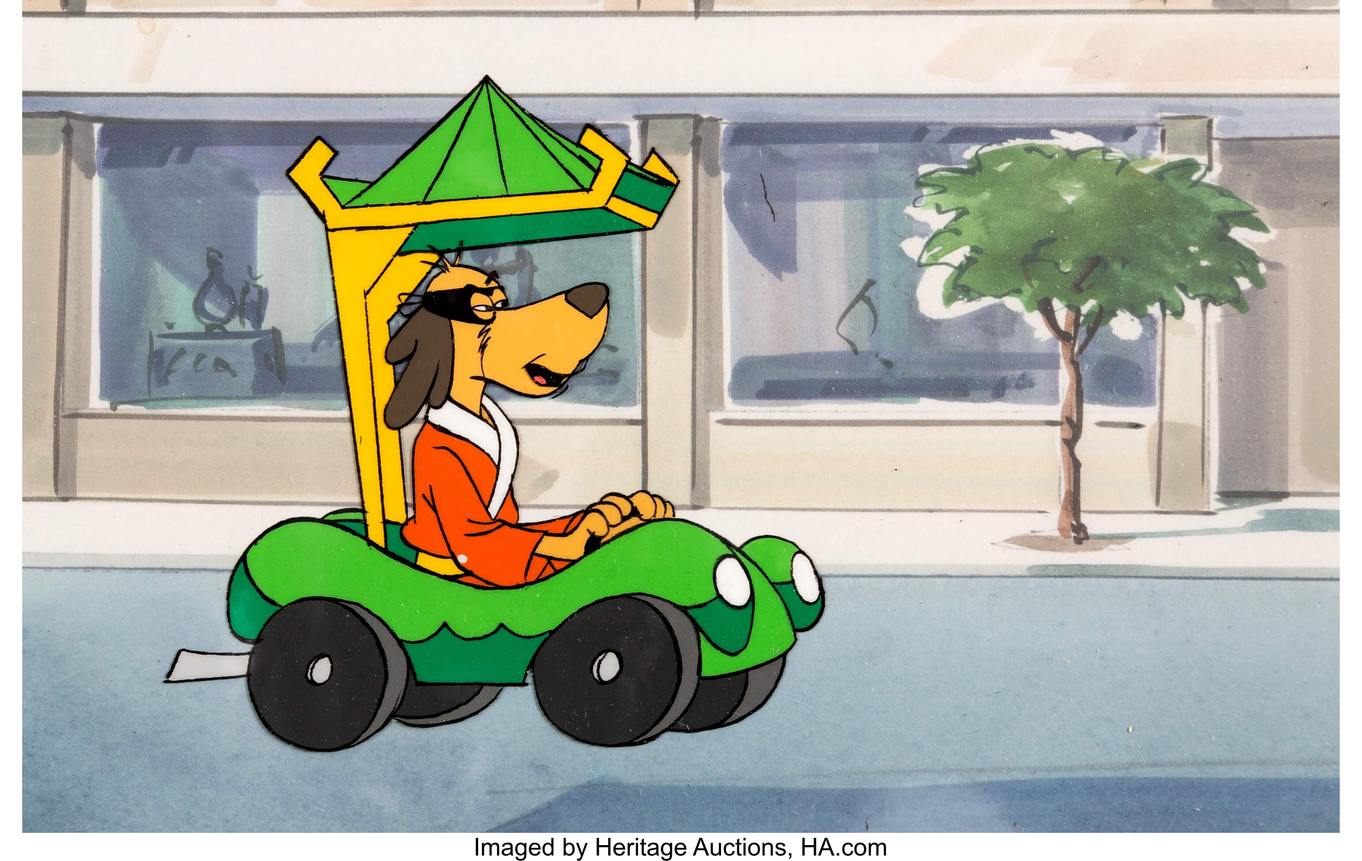
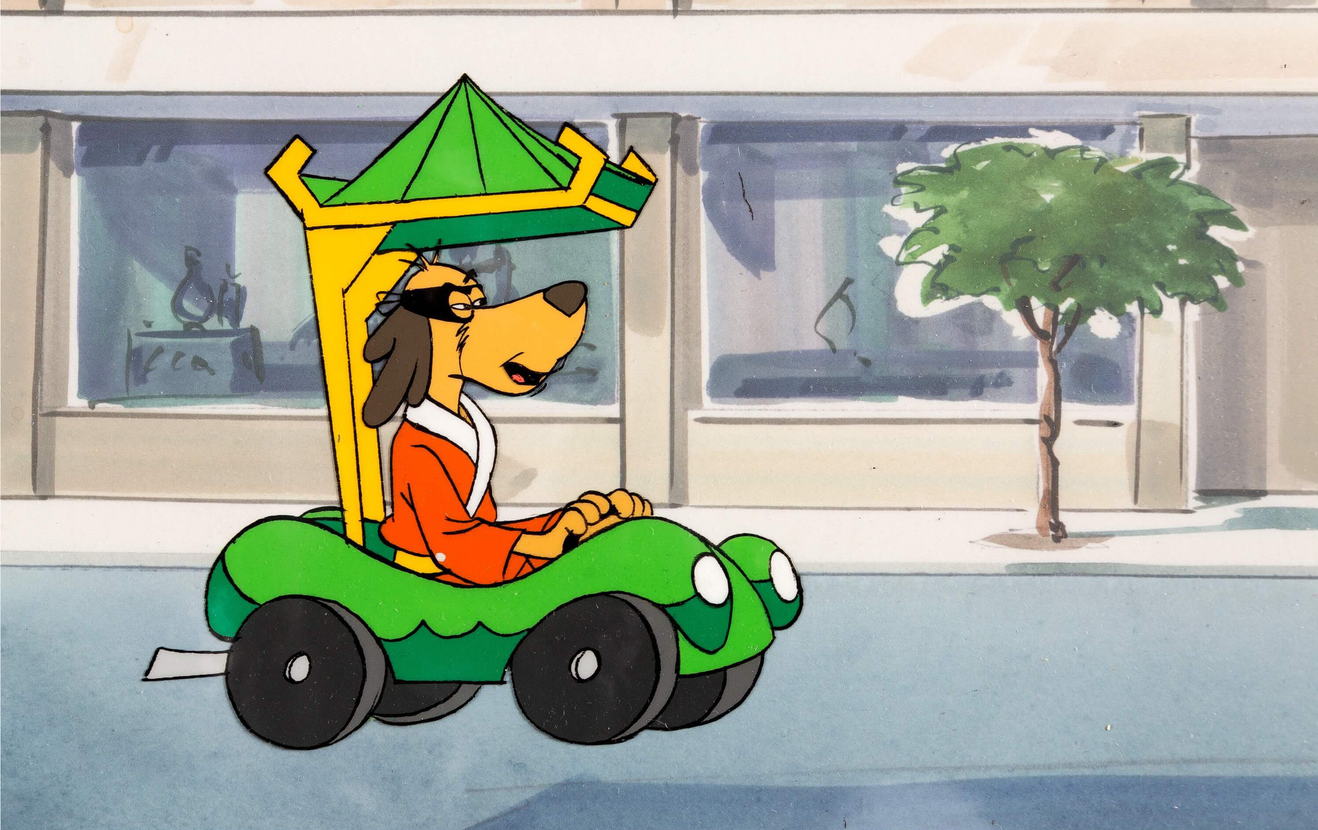
Image updated
Fixed image border issue and font colour of the caption

diff --git a/index.html b/index.html
@@ -35,12 +35,12 @@
     <li><a target="_blank" href="https://en.wikipedia.org/wiki/Kathy_Gori">Rosemary</a></li>
     <li><a target="_blank" href="https://en.wikipedia.org/wiki/Don_Messick">Spot</a></li>
   </ul>
-  
+
    </main>
 
    <!-- footer element -->
    <footer>
-     <p>This site was created during a <a target="_blank" href="https://www.skillshare.com">Skillshare</a> class. &copy; Tony</p>
+     <p>This site was created during a <a target="_blank" href="https://www.skillshare.com">Skillshare</a> class, thanks to Rich. &copy; Tony</p>
    </footer>
 
 </body>

diff --git a/css/hero.css b/css/hero.css
@@ -27,7 +27,7 @@ header img{
 	border-radius: 150px;
     width: 300px;
     border: 15px solid purple
-}    
+}
 
 main{
 	max-width: 800px;
@@ -69,7 +69,7 @@ footer p{
 }
 /*all paragraph with a class of caption */
 p.caption{
-	color: #FF33D7;
+	color: #e70c19;
 	font-style:  italic;
 	font-weight: bold;
 	margin: 0;
@@ -84,4 +84,3 @@ footer a:hover{
 	opacity: .5;
 	background-color: transparent;
 }
-
